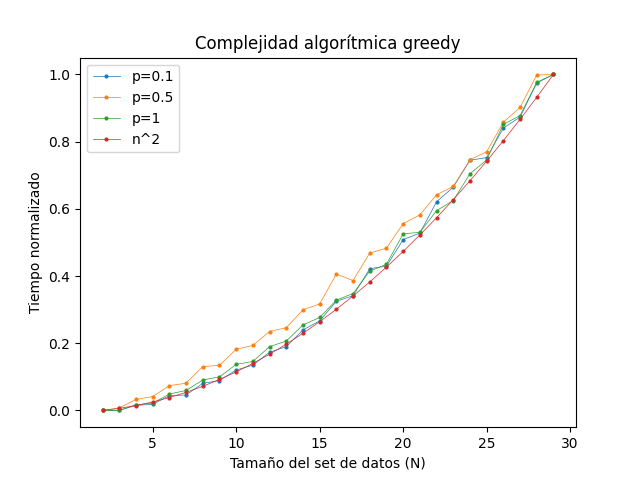
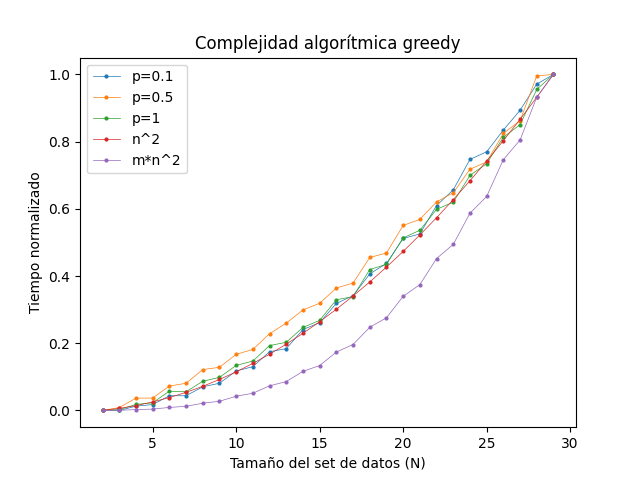
Update complejidad greedy

diff --git a/tp3/complejidad_algoritmica.py b/tp3/complejidad_algoritmica.py
@@ -51,6 +51,7 @@ def comparar_complejidad():
     t_gr = []
     t_n_m_2_power_n = normalizar([n * (math.floor(n / 2)) * 2 ** n for n in N])
     t_n_power_2 = normalizar([(n ** 2) for n in N])
+    t_m_n_power_2 = normalizar([math.floor(n / 2) * (n ** 2) for n in N])
 
     for experimentos in sets:
         _t_bt = []
@@ -87,8 +88,8 @@ def comparar_complejidad():
 
     generar_grafico(
         N,
-        [t for t in t_gr] + [t_n_power_2],
-        [f'p={i}' for i in probabilidades] + ['n^2'],
+        [t for t in t_gr] + [t_n_power_2, t_m_n_power_2],
+        [f'p={i}' for i in probabilidades] + ['n^2', 'm*n^2'],
         'Complejidad algorítmica greedy',
         'complejidad_algoritmica_greedy.png'
     )
